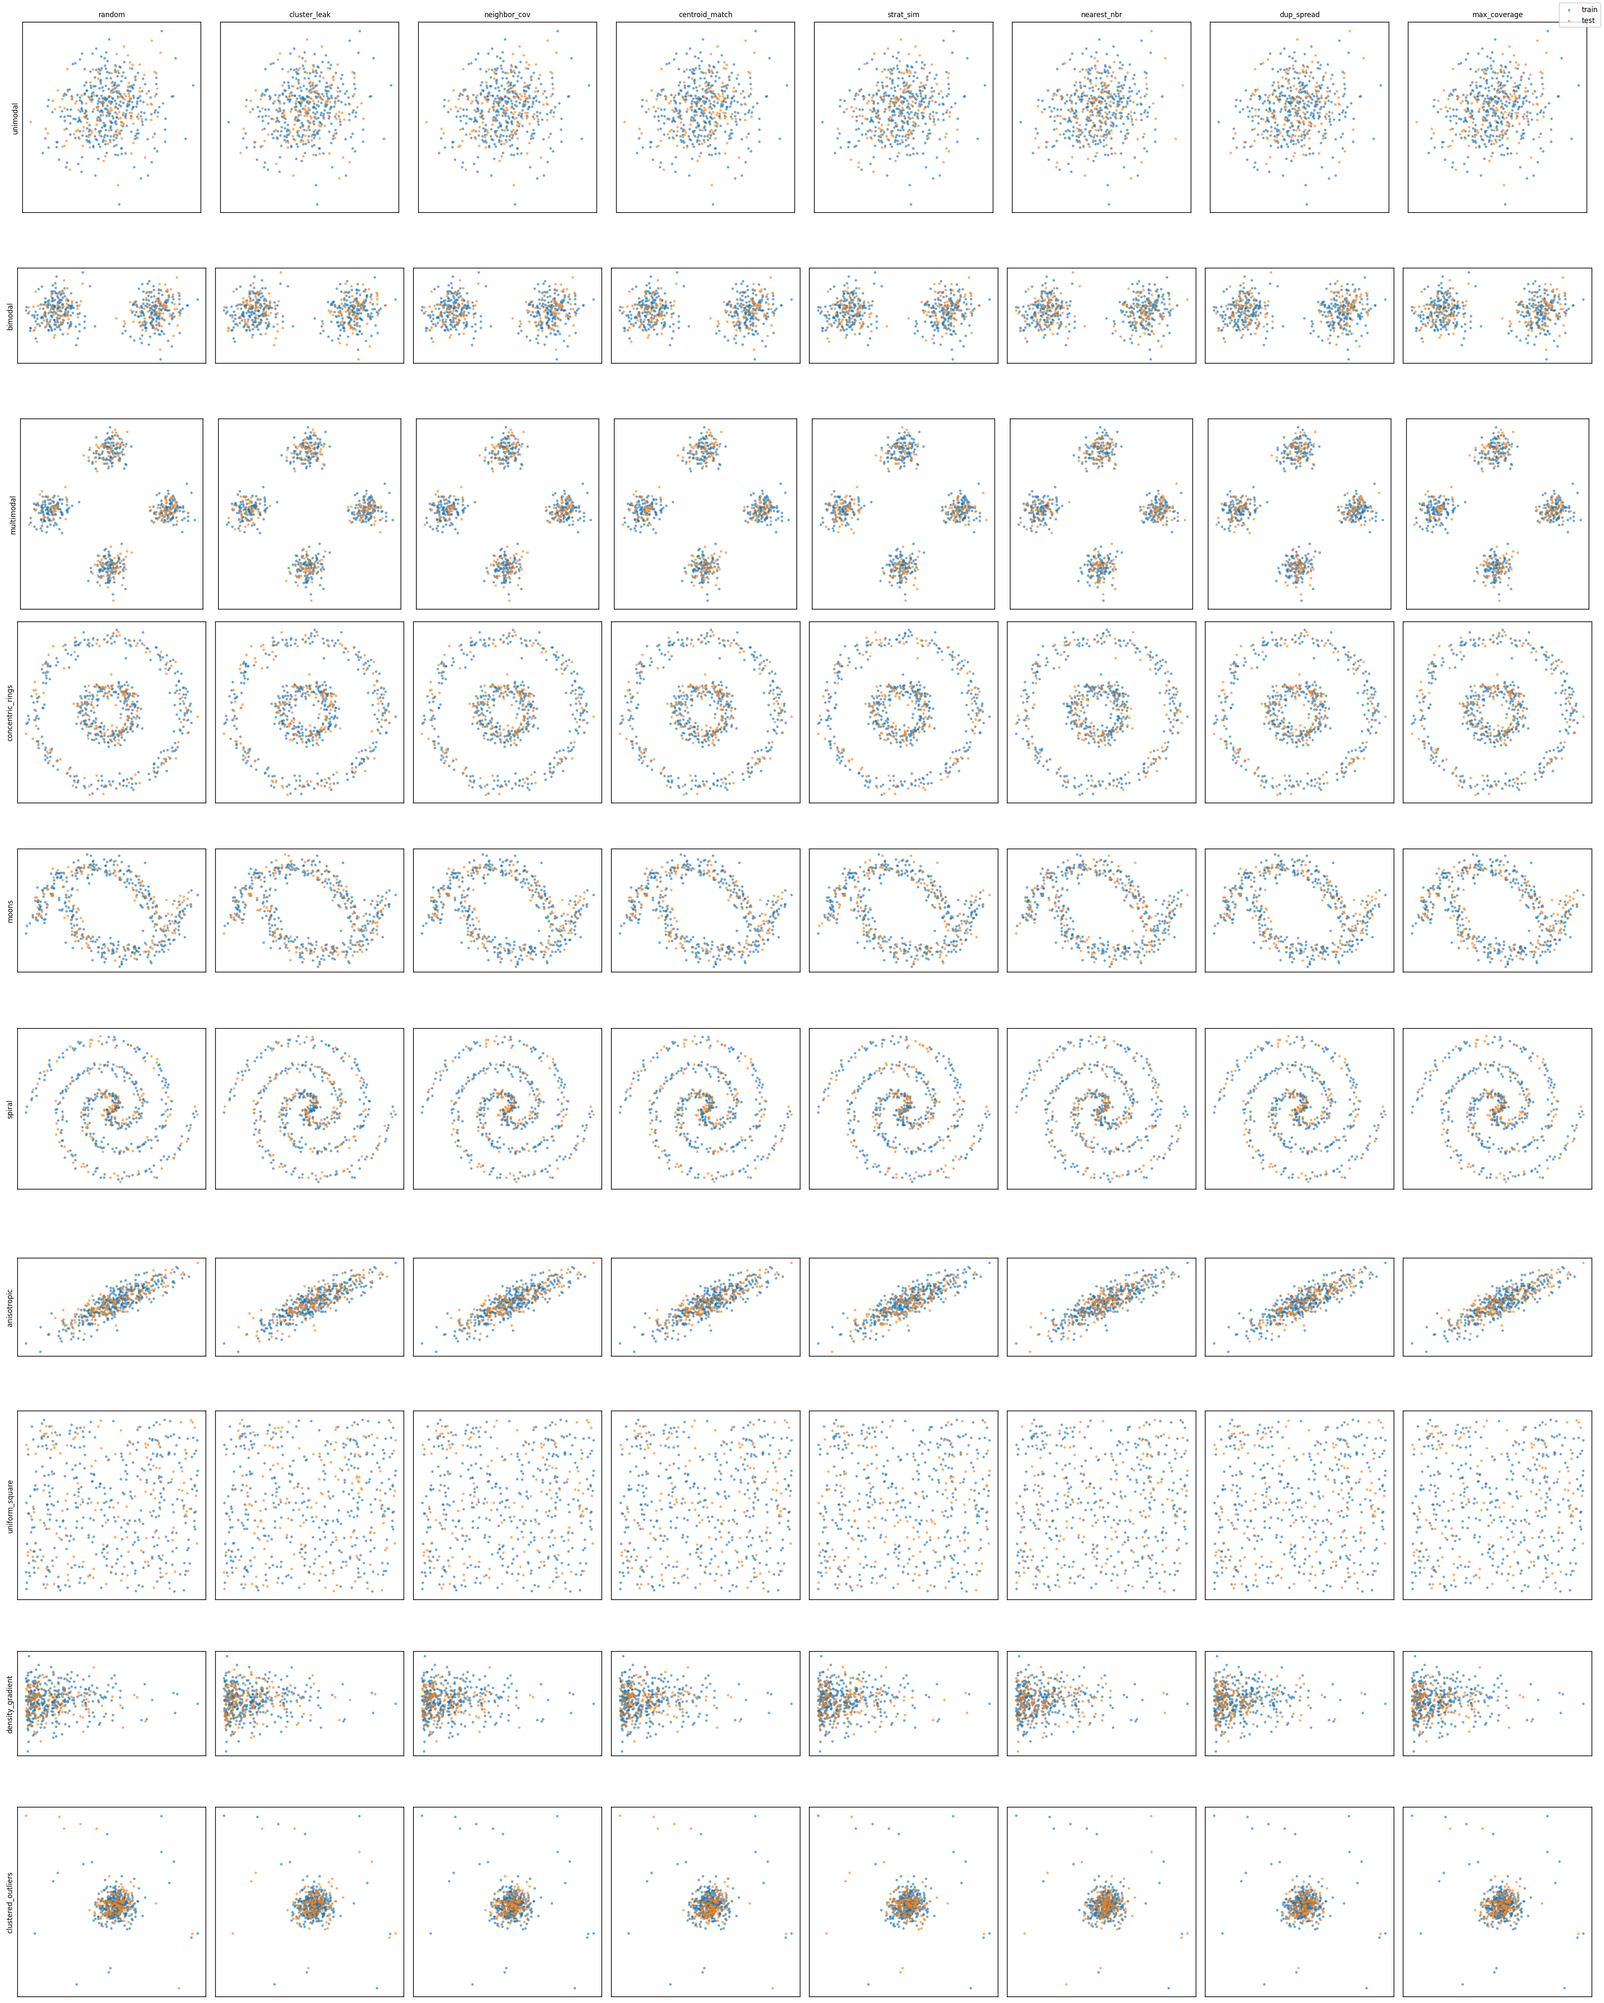
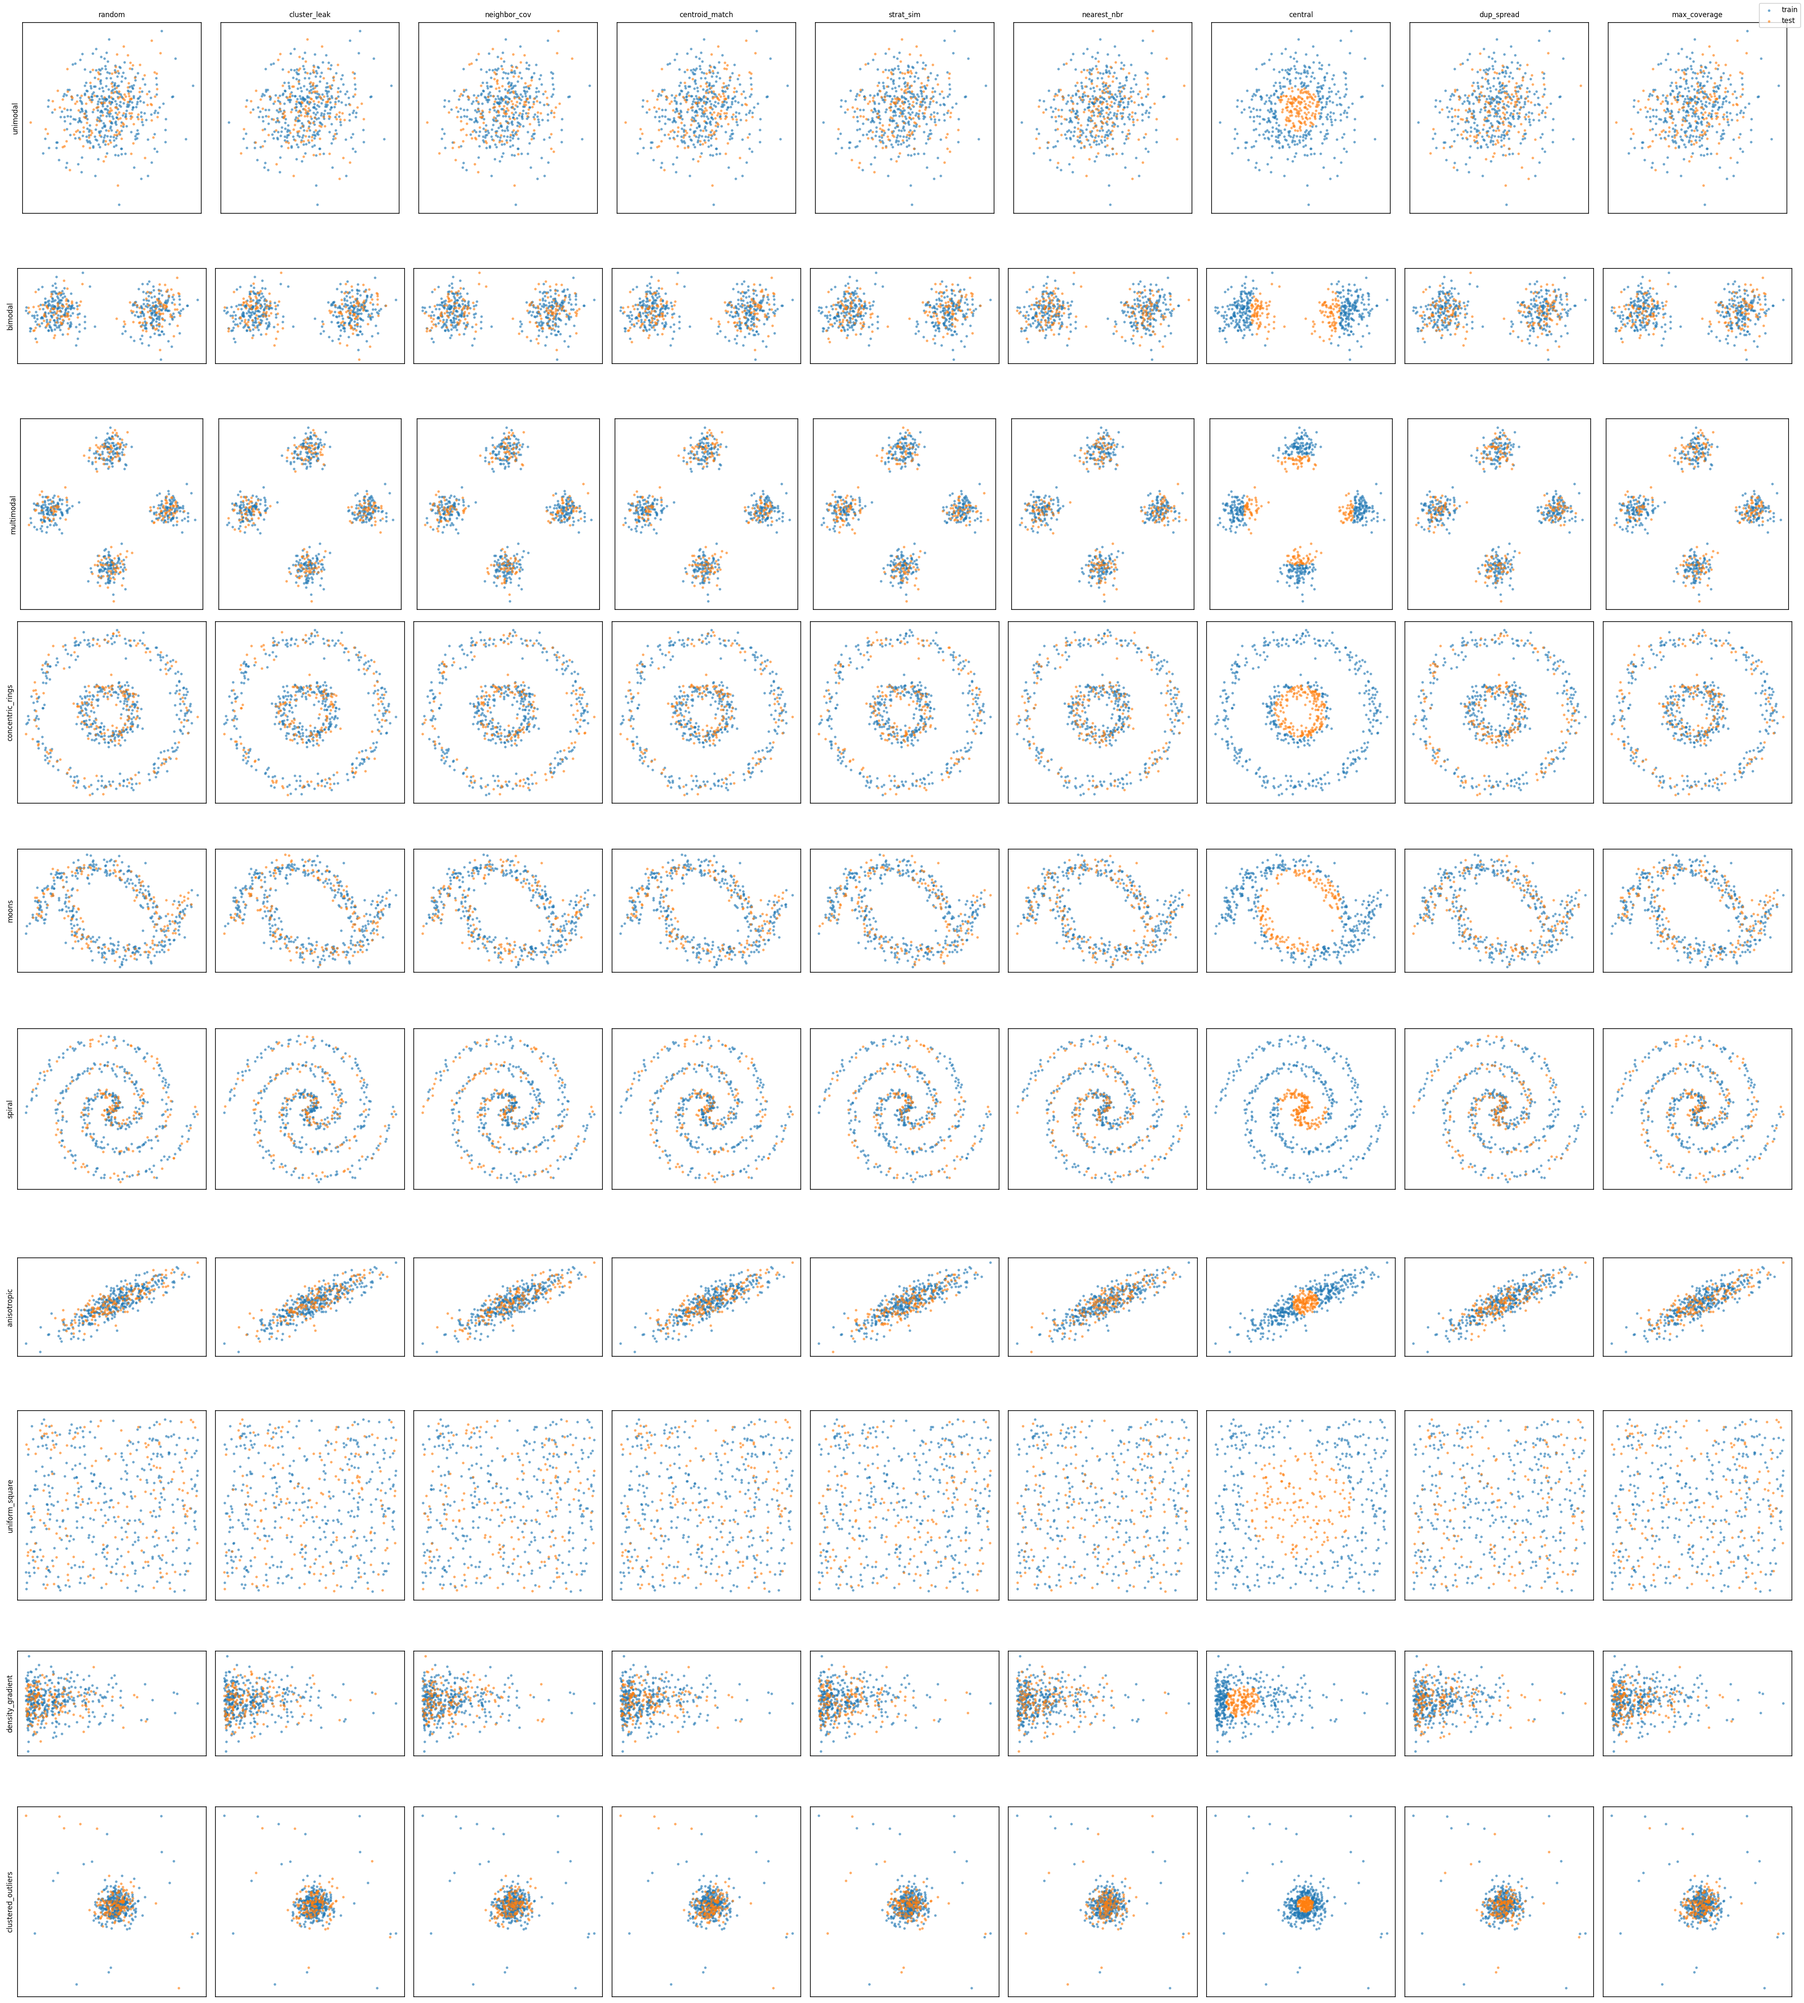
docs: refresh overlap figure and README layout
- Add central_split to demos/visualize_splits.py and regenerate
  docs/overlap.png. The old figure predated central_split (#74) and showed
  duplicate_spread_split under its old default threshold, which merged
  nearby points on the toy data; under the new default (#71) those datasets
  have no near-duplicates, so it is a random split.
- List every package module in the README project layout (grouped,
  stratify, likelihood, curriculum, metrics, distances were missing) and
  describe docs/ as the MkDocs source.
- Add a Contributing section pointing to CONTRIBUTING.md and the
  pre-commit hooks.

diff --git a/demos/visualize_splits.py b/demos/visualize_splits.py
@@ -50,6 +50,7 @@ SPLITTER_GROUPS = {
         ("centroid_match", splytters.centroid_matched_split),
         ("strat_sim", splytters.stratified_similarity_split),
         ("nearest_nbr", splytters.nearest_neighbor_split),
+        ("central", splytters.central_split),
         ("dup_spread", splytters.duplicate_spread_split),
         ("max_coverage", splytters.max_coverage_split),
     ],

diff --git a/README.md b/README.md
@@ -222,11 +222,24 @@ pip install -e ".[dev]"
 pytest
 ```
 
+## Contributing
+
+See [CONTRIBUTING.md](CONTRIBUTING.md) for dev setup, conventions, and the
+pre-commit hooks (gitleaks secret scanning and ruff) to install before your
+first commit.
+
 ## Project layout
 
 ```
 splytters/                # the installable package
-  adversarial.py / overlap.py / balanced.py / utils.py   # splitting algorithms
+  adversarial.py / overlap.py / balanced.py   # embedding splitters by family
+  grouped.py              # group_split, deduplicated_split (keep related samples together)
+  stratify.py             # per_class_split / per_class_sort wrappers
+  likelihood.py           # likelihood_split (Godbole & Jia 2023)
+  curriculum.py           # sorted_stratified_split (easy -> train, hard -> test along a sort order)
+  utils.py                # shared helpers (validation, neighbors, clustering)
+  metrics.py              # diversity metrics for comparing splits
+  distances.py            # text similarity (difflib, n-gram Jaccard)
   sklearn_api.py          # SplytterSplit + *_train_test_split
   interop.py              # pandas / torch / HuggingFace adapters
   report.py               # split_report, compare_splitters
@@ -237,5 +250,5 @@ test_data/                # sample audio/images/text used by tests
 demos/                    # demo.py, im_demo.py (sorter demos: TREC text, CLIP images)
                           # visualize_splits.py + visualize_supervised_splits.py (README figures), visualize_text_splits.py
 scripts/                  # generate_test_*.py (regenerate the test_data/ fixtures)
-docs/                     # README figures
+docs/                     # MkDocs site source (guides, API reference) + README figures
 ```
